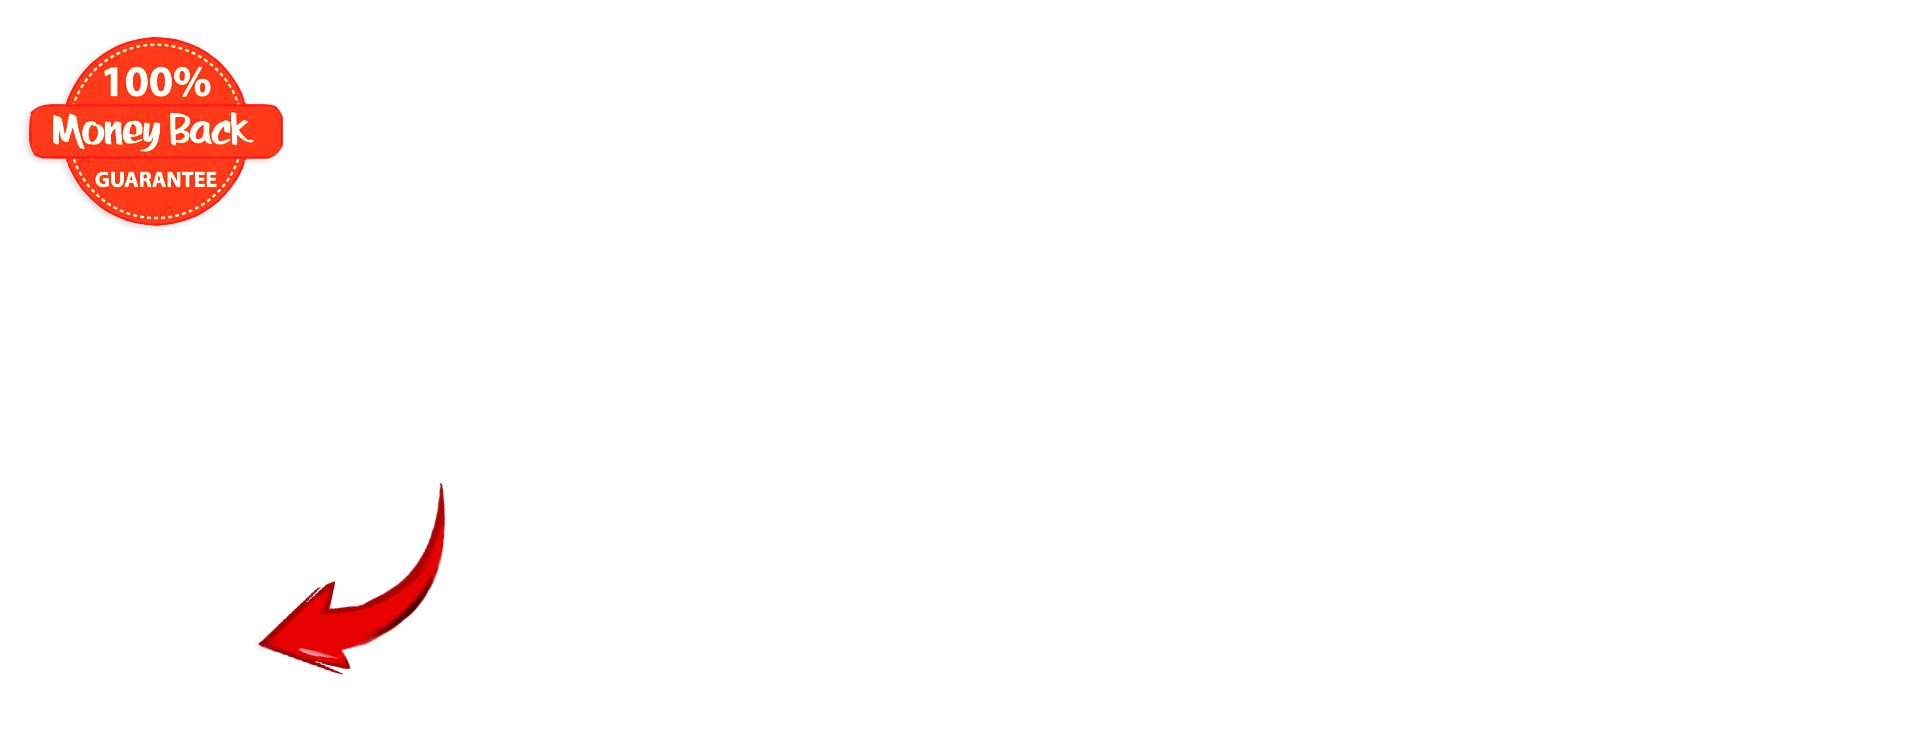
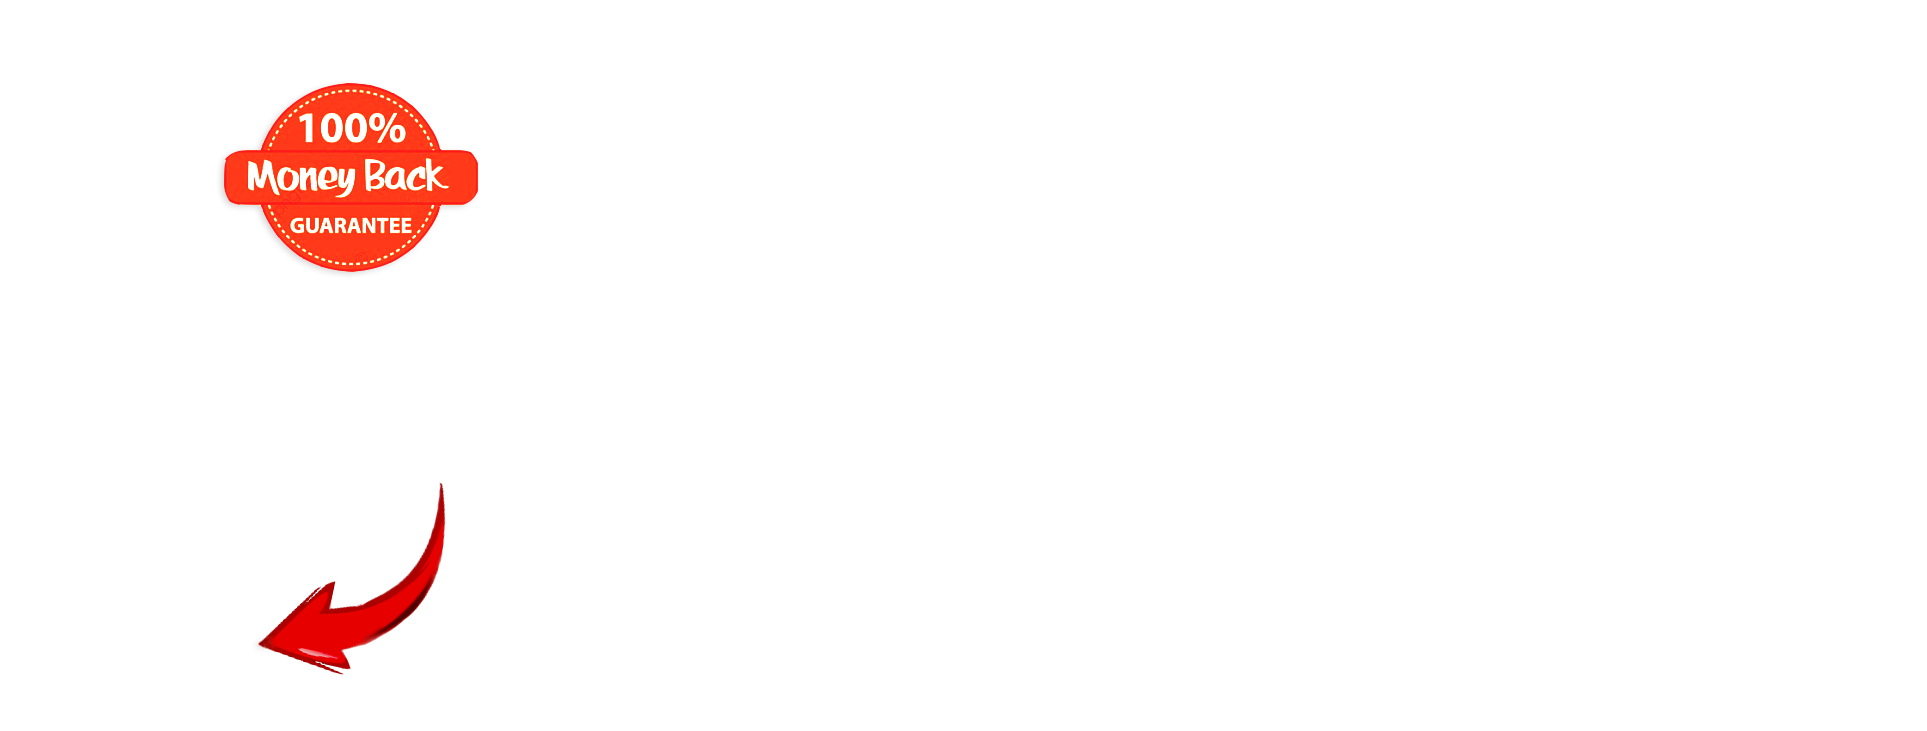
update
update

Changed region(s): [[0.0, 0.0301, 0.2491, 0.3912]]

diff --git a/program.html b/program.html
@@ -218,7 +218,7 @@
       </section>
       
       <!--Call to  Action-->
-      <section class="section cta-section bg-gray-lighten float-start" id="CallToAksi" style="background-image:url('images/panah.png')"  alt="diet kelas online - weight loss challenge - ingin langsing - fat loss challenge - turun berat badan">
+      <section class="section cta-section bg-gray-lighten float-start" id="CallToAksi" style="background-image:url('images/CallToAction2.png')"  alt="diet kelas online - weight loss challenge - ingin langsing - fat loss challenge - turun berat badan">
         <div class="container">
             <div class="row">
               <div class="col-xl-8 col-sm-10 col-12 col-md-8 wow fadeInRight"></div>
